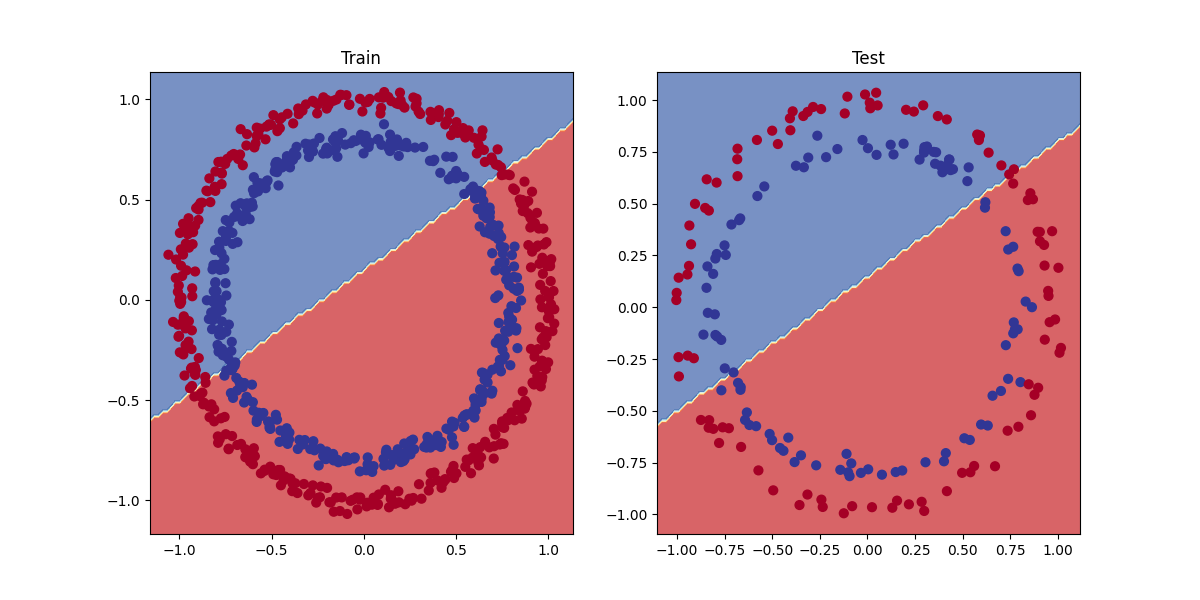
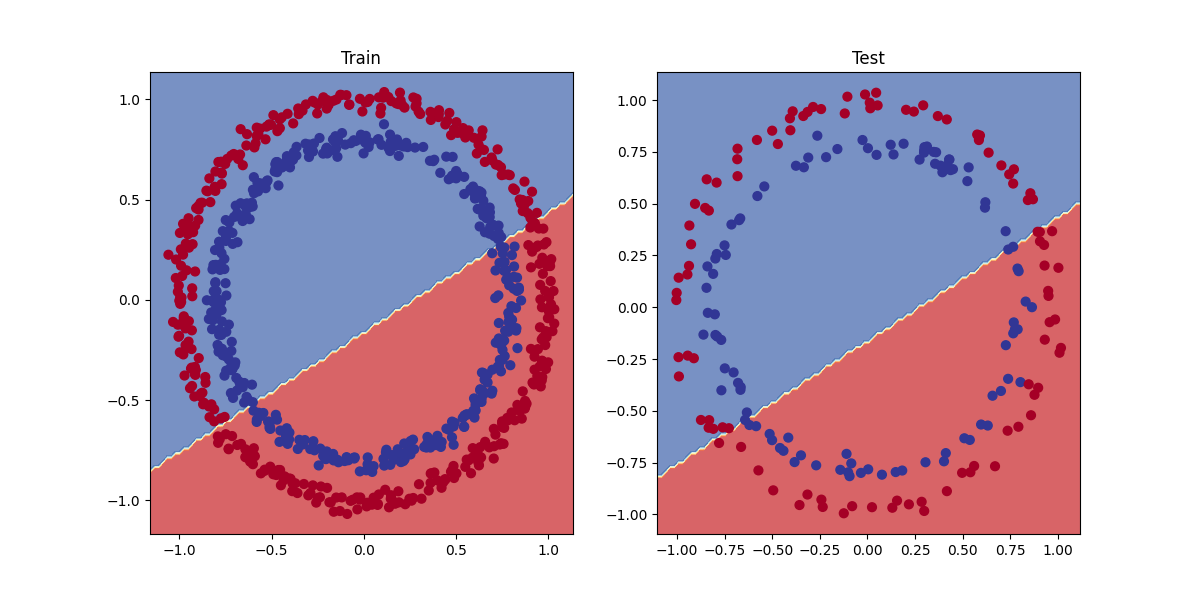
first non-linear model

Changed region(s): [[0.5242, 0.21, 0.925, 0.81], [0.1233, 0.21, 0.4933, 0.78]]

diff --git a/pytorch_classification.py b/pytorch_classification.py
@@ -1,6 +1,7 @@
 import torch
 from torch import nn
 import numpy as np
+import sklearn
 import matplotlib.pyplot as plt
 import pandas as pd
 
@@ -369,5 +370,194 @@ plt.subplot(1, 2, 2)
 plt.title("Test")
 plot_decision_boundary(model_0, X_test, y_test)
 plt.savefig("plot_decision_boundary_modelV1.png")
+
+
+
+###TODO: preparing data to see if out model can fit a straight line
+
+#one way to troubleshoot a larger problem is to test out smaller problems
+
+
+
+#create some data 
+weight = 0.7
+bias = 0.3
+start = 0 
+end = 1
+step = 0.01
+
+#create data
+X_regression = torch.arange(start, end, step).unsqueeze(dim=1)
+y_regression = weight*X_regression + bias #linear regression formula (without epsilon)
+
+print(len(X_regression))
+print(X_regression[:5], y_regression[:5])
+
+#create train and test splits
+
+train_split = int(0.8 * len(X_regression))
+X_train_regression, y_train_regression = X_regression[:train_split], y_regression[:train_split]
+X_test_regression, y_test_regression = X_regression[train_split:], y_regression[train_split:]
+
+plot_predictions(train_data = X_train_regression,
+                 train_labels = y_train_regression,
+                 test_data = X_test_regression,
+                 test_labels = y_test_regression)
+
+
+#same architecture as model_a (but using nn.sequential)
+
+model_2 = nn.Sequential(
+    nn.Linear(in_features=1, out_features=10),
+    nn.Linear(in_features=10, out_features=10),
+    nn.Linear(in_features=10, out_features=1) 
+).to(device) #this is the same as model one except change the number of in features to make sure that it matches a linear setup
+
+
+loss_fn = nn.L1Loss()
+optimizer = torch.optim.SGD(params = model_2.parameters(), lr=0.1)
+
+#train the model
+
+torch.manual_seed(42)
+torch.cuda.manual_seed(42)
+
+
+epochs = 1000
+
+X_train_regression, y_train_regression = X_train_regression.to(device), y_train_regression.to(device)
+X_test_regression, y_test_regression = X_test_regression.to(device), y_test_regression.to(device)
+
+for epoch in range (epochs):
+    y_pred = model_2(X_train_regression)
+    loss = loss_fn(y_pred, y_train_regression)
+    optimizer.zero_grad()
+    loss.backward()
+    optimizer.step()
+
+    model_2.eval()
+    with torch.inference_mode():
+        test_pred = model_2(X_test_regression)
+        test_loss = loss_fn(test_pred, y_test_regression)
+
+
+    if epoch % 100 == 0:
+        print(f"Epoch: {epoch} | Loss: {loss: 5f} | Test loss: {test_loss: .5f}")
+
+model_2.eval()
+with torch.inference_mode():
+    y_pred = model_2(X_test_regression)
+
+plot_predictions(train_data = X_train_regression.cpu(),
+                 train_labels = y_train_regression.cpu(),
+                 test_data = X_test_regression.cpu(),
+                 test_labels = y_test_regression.cpu(),
+                 predictions=y_pred.cpu())
+
+
+#TODO: The missing piece, nonlinearity
+
+#recreating non-linear data
+#make and plot data
+
+n_samples = 1000
+
+X, y = make_circles(n_samples,
+                    noise = 0.03,
+                    random_state=42)
+
+plt.scatter(X[:, 0], X[:, 1], c=y, cmap=plt.cm.RdYlBu)
+
+#convert data to tensors and then to train and test splits
+from sklearn.model_selection import train_test_split
+
+X = torch.from_numpy(X).type(torch.float)
+y = torch.from_numpy(y).type(torch.float)
+
+X_train, X_test, y_train, y_test = train_test_split(X, y, test_size=0.2, random_state=42)
+
+
+
+#TODO: building a model with non-linearity
+
+class CircleModelV2(nn.Module):
+    def __init__(self):
+        super().__init__()
+        self.layer_1 = nn.Linear(in_features=2, out_features=10)
+        self.layer_2 = nn.Linear(in_features=10, out_features=10)
+        self.layer_3 = nn.Linear(in_features=10, out_features=1)
+        self.relu = nn.ReLU() #relu bascially takes all values < 0 and make it 0, and keeps all values > 0 as it is
+
+    def forward(self, x):
+        #where should we put our non-linear activation functions? 
+        return self.layer_3(self.relu(self.layer_2(self.relu(self.layer_1(x))))) #relu should go through every layer, so if using nn.Sequential you should put a relu between every layer
+
+
+model_3 = CircleModelV2().to(device)
+print(model_3)
+
+#artificial neural networks are just a collection of linear and non linear function which are potentially able ot find patterns in data
+
+#setup loss and optimizer
+
+loss_fn = nn.BCEWithLogitsLoss()
+optimizer = torch.optim.Adam(params=model_3.parameters(), lr = 0.01)
+
+#training a model with non-linearity
+
+#random seeds
+torch.manual_seed(42)
+torch.cuda.manual_seed(42)
+
+#put all data on the target device
+
+X_train = X_train.to(device)
+y_train = y_train.to(device)
+X_test = X_test.to(device)
+y_test = y_test.to(device)
+
+epochs = 10000
+
+for epoch in range(epochs):
+    model_3.train()
+
+    y_logits = model_3(X_train).squeeze()
+    y_pred = torch.round(torch.sigmoid(y_logits))
+
+    loss = loss_fn(y_logits, y_train)
+    acc = accuracy_fn(y_true = y_train,
+                      y_pred = y_pred)
+    optimizer.zero_grad()
+    loss.backward()
+    optimizer.step()
+
+    model_3.eval()
+    with torch.inference_mode():
+        test_logits = model_3(X_test).squeeze() # this squeeze is very important in order to make the shapes match
+        test_pred =  torch.round(torch.sigmoid(test_logits))
+
+        test_loss = loss_fn(test_logits, y_test)
+        test_acc = accuracy_fn(y_true = y_test,
+                          y_pred = test_pred)
+
+    if epoch % 1000 == 0:
+        print(f"Epoch: {epoch} | Loss: {loss:.4f}, Acc: {acc:.2f}% | Test Loss: {test_loss:.4f}, Test Acc: {test_acc:.2f}% ") #the .2f just says to the specified decimal places
+
+#make predictions
+
+model_3.eval()
+with torch.inference_mode():
+    y_preds = torch.round(torch.sigmoid(model_3(X_test).squeeze()))
+
+
+
+plt.figure(figsize=(12, 6))
+plt.subplot(1, 2, 1)
+plt.title("Train")
+plot_decision_boundary(model_3, X_train, y_train)
+plt.subplot(1, 2, 2)
+plt.title("Test")
+plot_decision_boundary(model_3, X_test, y_test)
+plt.savefig("plot_decision_boundary_modelV3.png")
 
 
